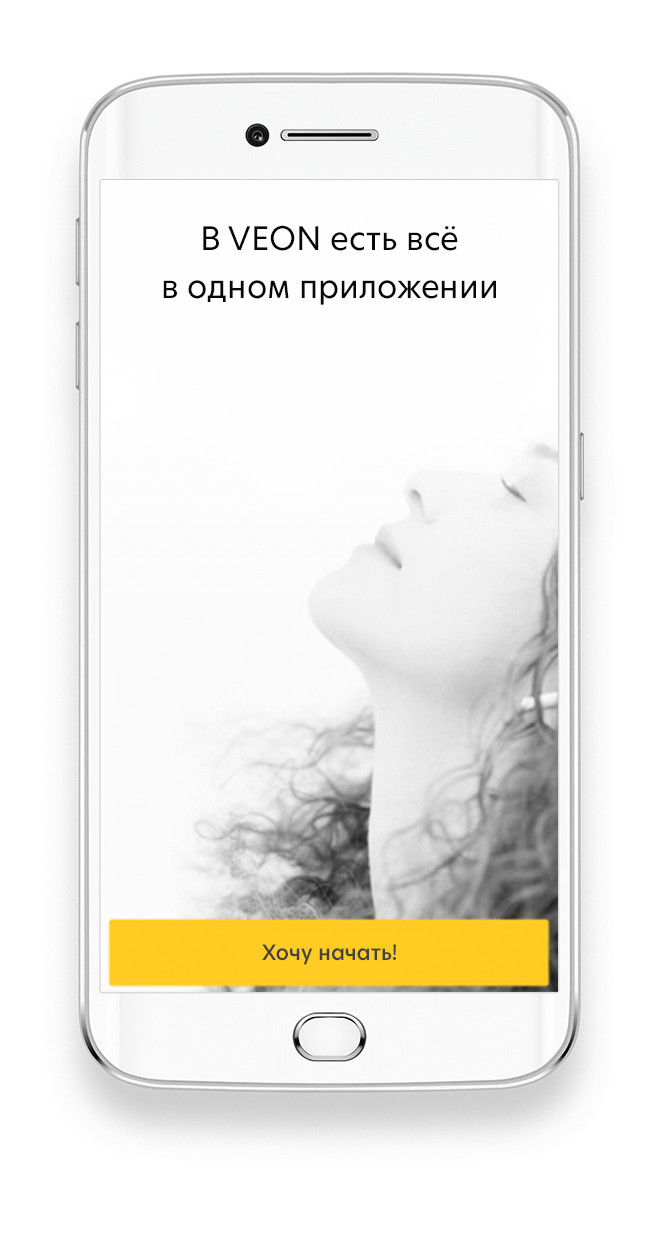
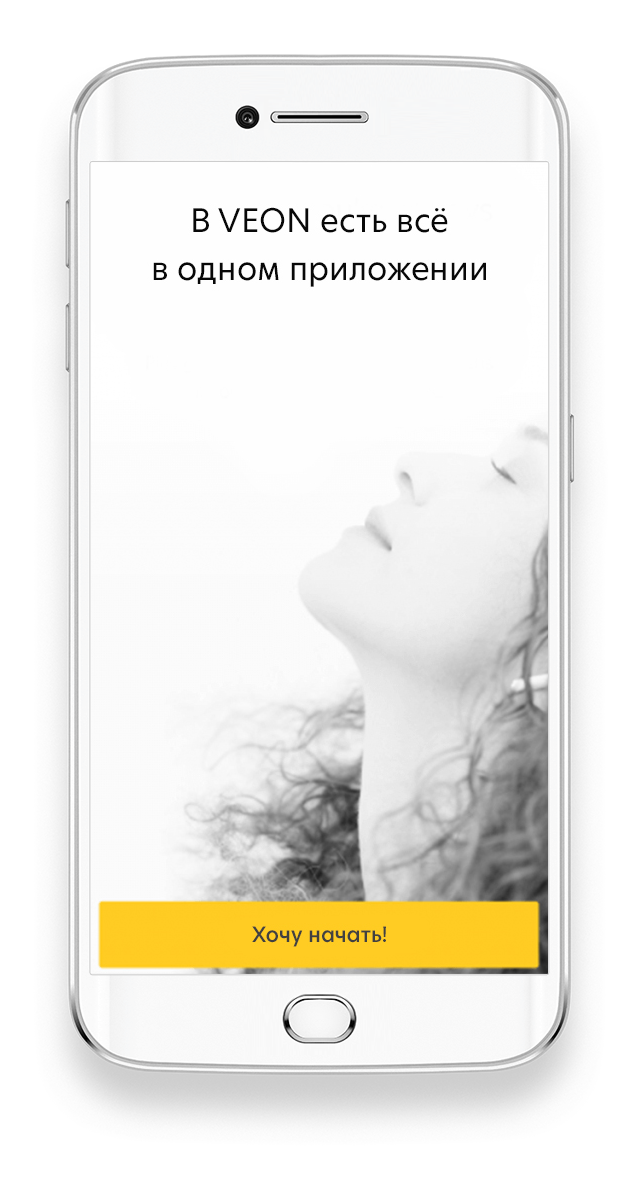
Add image swapping in static-slider

Changed region(s): [[0.0938, 0.0308, 0.9062, 0.8927], [0.2188, 0.1539, 0.7812, 0.2463], [0.75, 0.3694, 0.8125, 0.4002]]

diff --git a/app/index.js b/app/index.js
@@ -32,3 +32,17 @@ document.querySelector('.video-popup').addEventListener('click', function(event)
   event.target.classList.remove('shown');
   iframe.contentWindow.postMessage('{"event":"command","func":"pauseVideo","args":""}','*');
 });
+
+var staticSlider = document.querySelector('.static-slider__phone');
+var staticSliderImages = staticSlider.querySelectorAll('.static-slider__phone-image');
+
+setInterval(function() {
+  var shownImage = staticSlider.querySelector('.shown');
+
+  shownImage.classList.remove('shown');
+  if (shownImage.nextElementSibling) {
+    shownImage.nextElementSibling.classList.add('shown');
+  } else {
+    staticSliderImages[0].classList.add('shown');
+  }
+}, 7000);

diff --git a/app/index.html b/app/index.html
@@ -180,8 +180,8 @@
         <h2 class="static-slider__h2">В одном приложении</h2>
       </div>
       <div class="static-slider__phone">
-        <img class="img-screen img-screen_1" src="/img/phone-static-slider-1.png" alt="">
-        <!-- <img class="img-screen img-screen_2" src="/img/phone-static-slider-2.png" alt=""> -->
+        <img class="img-screen static-slider__phone-image shown" src="/img/phone-static-slider-1.png" alt="">
+        <img class="img-screen static-slider__phone-image" src="/img/phone-static-slider-2.png" alt="">
       </div>
       <div class="static-slider__info">
         <div class="static-slider__head isTablet">
